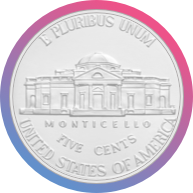
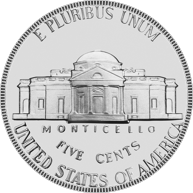
change coin image

diff --git a/index.html b/index.html
@@ -16,9 +16,9 @@
 <div class="container" id="main-wrapper">
     <div id="inner-wrapper" class="shadow">
         <div class="h-50 text-center" id="coin-wrapper">
-            <img src="assets/images/heads.png" id="static-coin">
-            <img src="assets/images/heads.png" id="flipping-coin">
-            <img src="" id="coin">
+            <img src="assets/images/heads.png" id="static-coin" class="coin-image">
+            <img src="assets/images/heads.png" id="flipping-coin" class="coin-image">
+            <img src="" id="coin" class="coin-image">
         </div>
         <div class="d-flex justify-content-center" id="stats-main-wrapper">
             <div class="text-center stats-wrapper">

diff --git a/assets/css/style.css b/assets/css/style.css
@@ -25,9 +25,9 @@ body {
     position: relative;
     margin-bottom:30px;
 }
-img {
+.coin-image {
     /*box-shadow: 0px 8px #40689e5c;*/
-    box-shadow: 0px 8px rgba(100, 144, 203, 0.3);
+    box-shadow:  0px 8px rgb(60, 60, 60);;
     border-radius: 100px;
 }
 #static-coin {
@@ -144,7 +144,3 @@ img {
     -webkit-animation-iteration-count: 1;
     animation-iteration-count: 1;
 }
-
-
-
-

diff --git a/assets/js/app.js b/assets/js/app.js
@@ -68,20 +68,3 @@ function restart(){
     document.location.href = "";
     sound2.play();
 }
-
-
-
-
-
-
-
-
-
-
-
-
-
-
-
-
-
